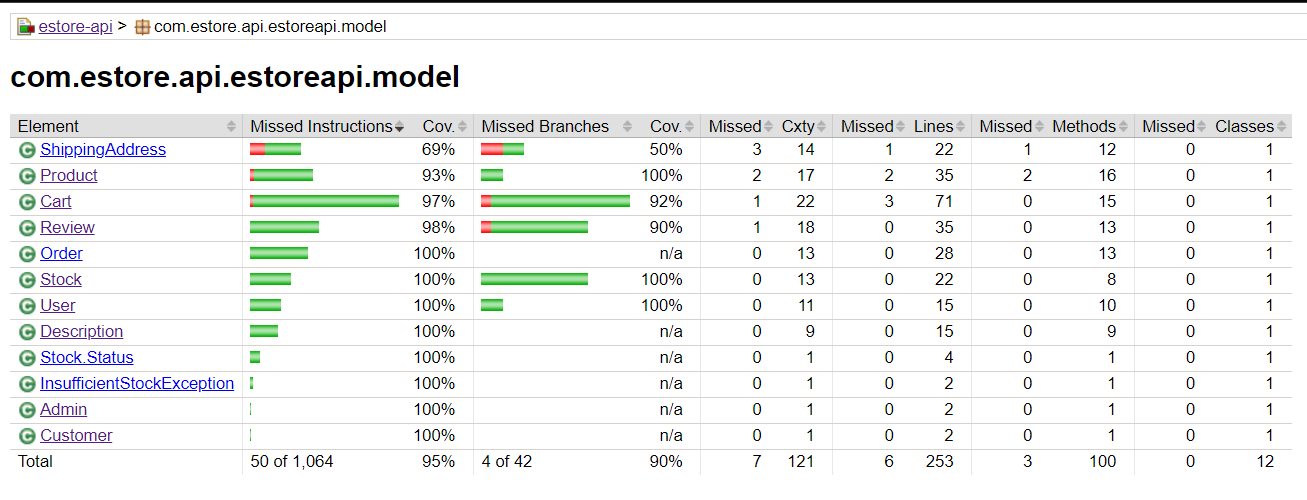
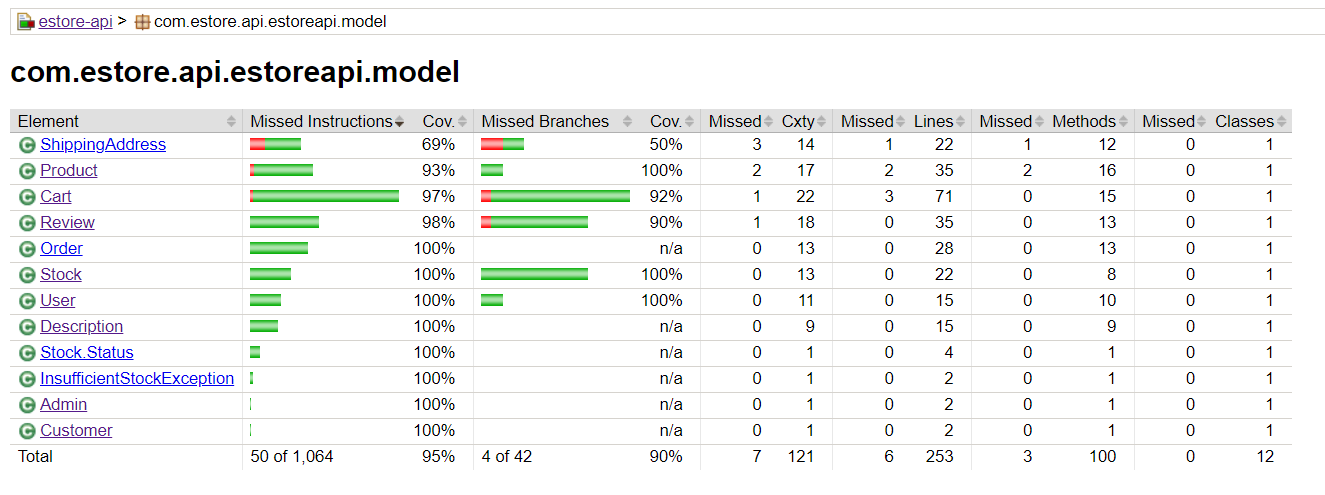
Fixed the code coverage portion, added some comments.

diff --git a/docs/DesignDoc.md b/docs/DesignDoc.md
@@ -319,7 +319,6 @@ The `UpdateService` is used to update the data in the application. It is used to
 ![Review Feature Diagram](review-feature.png)
 
 
-
 ### Model Tier
 Our model tier (`M` in `MVC`) is built using Java and Spring Framework. The model tier is responsible for storing the application data objects and providing persistance. The model tier also exposes a set of APIs to the controller tier (`C` in `MVC`) to manipulate the data objects from the Model. The model tier is divided into three resources: `Inventory`, `User` and `Carts`. 
 
@@ -380,12 +379,15 @@ _
 > **Identify 3-4** areas within your code that have been flagged by the Static Code 
 > Analysis Tool (SonarQube) and provide your analysis and recommendations.  
 > Include any relevant screenshot(s) with each area._
-![Diagram]
-![Diagram for static error 2](flag-2.png)
-One of the places where SonarQube flagged our code was in our fileDAO classes for each of our APIs. We were not defining a variable static which is used to keep track of the ID of the object for which the API is built. Since it is not static, it is not shared across all instances of the class. This means that if we were to create a new instance of the class, the ID would be reset to 0. It currenly is not an issue because there is only one instance of the fileDAO ever made in our application. However, if we were to create a new instance of the class, it would cause issues. To fix this, we would make the variable static.
 
-![Diagram for conditional](flag-3.png)
+
+One of the places where SonarQube flagged our code was in our fileDAO classes for each of our APIs. We were not defining a variable static which is used to keep track of the ID of the object for which the API is built. Since it is not static, it is not shared across all instances of the class. This means that if we were to create a new instance of the class, the ID would be reset to 0. It currenly is not an issue because there is only one instance of the fileDAO ever made in our application. However, if we were to create a new instance of the class, it would cause issues. To fix this, we would make the variable static.
+![Diagram for static error 1](flag-1.png)
+
+![Diagram for static error 2](flag-2.png)
+
 Another place where SonarQube flagged out code was a conditional being out of place. This is an indentation issue. The conditional is not indented properly. This is a minor issue and can be fixed by simply indenting the conditional properly.
+![Diagram for conditional](flag-3.png)
 
 > _**[Sprint 4]** Discuss **future** refactoring and other design improvements your team would explore if the team had additional time._
 If our team had additional time, we would explore more areas where we could utilize abstraction to avoid DRY violations. For instance, our Orders,
@@ -396,6 +398,7 @@ In addition to adhering to DRY principles, we would change how we display the st
 ## Testing
 > _This section will provide information about the testing performed
 > and the results of the testing._
+
 We tested our program using unit tests (guided by Jacoco), Postman, and visually in our UI. Our overall test coverage sits at 94%, with our Model Tier at 95%, our persistance tier at 95%, and our controller tier at 91%.
 
 ### Acceptance Testing
@@ -408,8 +411,11 @@ We had a total of 10 stories in the acceptance testing document, which is the to
 > coverage targets, why you selected those values, and how well your
 > code coverage met your targets._
 
-![Model tier code coverage for backend](code-coverage-model-tier.jpg)
+
+![Model tier code coverage for backend](code-coverage-model-tier.png)
 ![Controller tier code coverage for backend](code-coverage-controller-tier.png)
 ![Persistence tier code coverage for backend](code-coverage-persistence-tier.png)
 
 We ensured code coverage for all public methods and thus we have high code coverage. We used mockito wherever necessary. We also used PowerMockito to mock static methods. We used Jacoco to generate the code coverage reports. We used that to monitor the code coverage.
+One of the reason we have such high code coverage is that we ensured to make the Unit tests part of the story definition of done as is done in the industry, so for every story we had, we would make sure to have Unit tests for whatever new Java code we wrote.
+We initially targeted for 100% code coverage, but it became difficult to follow as some of the private methods were difficult to make tests for and the tests weren't reaching all the cases that we put in some methods. Moreoever, at the end of the phase, our focus shifted more on the functionality of the application than the unit test targets as we were under the pressure of the deadline. Nevertheless, overall we achieved 94% code coverage, which we feel is still great.
